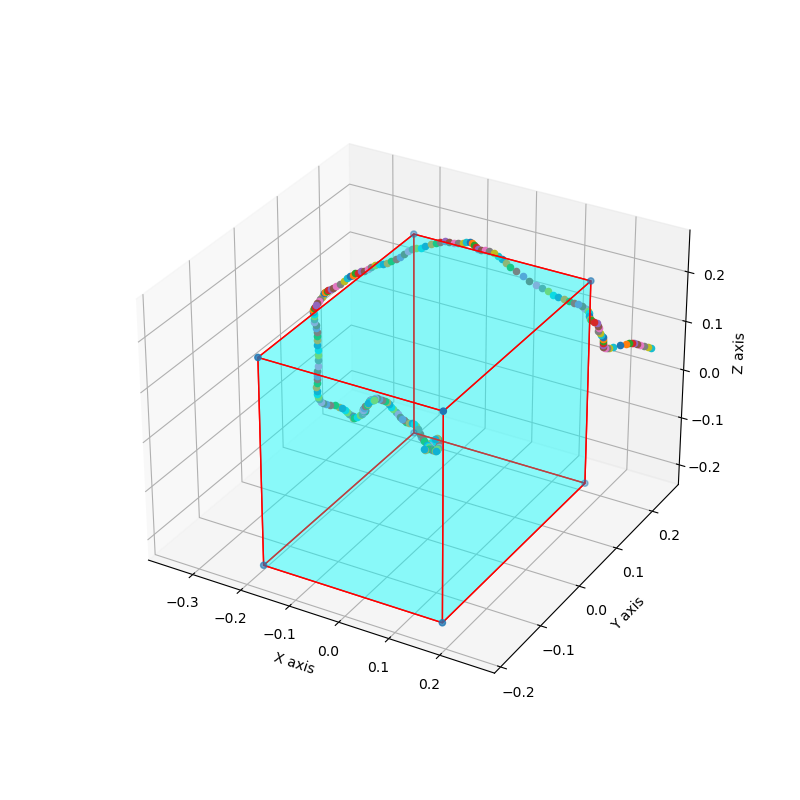
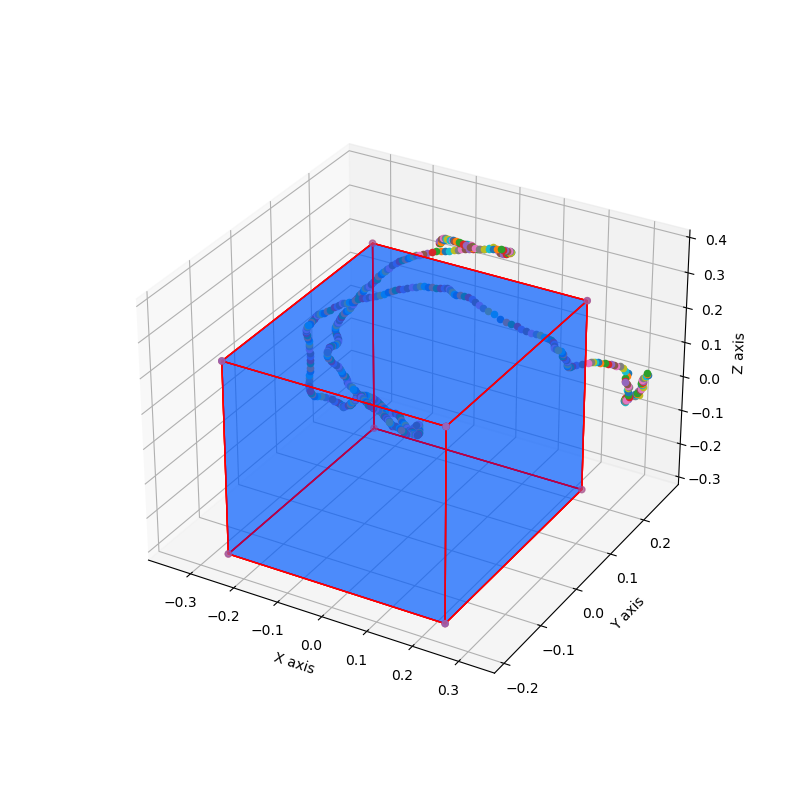
Added plotting of 3D bbox

diff --git a/src/bbox_3D_estimation/utils.py b/src/bbox_3D_estimation/utils.py
@@ -92,7 +92,7 @@ class Detector3D:
     def save_dimensions(self, data_root):
         np.savetxt(data_root + "/box3d_dimensions.txt", self.axes, delimiter=" ")
 
-    def plot_3D_bb(self, poses):
+    def plot_3D_bb(self, poses, GT_points=None):
         plot_3D_scene(
             estQs=self.estQs,
             gtQs=None,
@@ -100,7 +100,7 @@ class Detector3D:
             dataset="tiger",
             save_output_images=True,
             points=self.points,
-            GT_points=None 
+            GT_points=GT_points 
         )
         plt.show()
 
@@ -111,17 +111,19 @@ def predict_3D_bboxes(
     poses_paths,
     data_root,
     seq_dir,
+    filter,
     step=1,
     downscale_factor=0.6,
     compute_on_GPU="cpu",
     hololens=False
+    
 ):  
     full_res_img_paths = sort_path_list(full_res_img_paths)
     poses_paths = sort_path_list(poses_paths)
     _K, _ = data_utils.get_K(intrisics_path) 
 
     DetectorBox3D = Detector3D(_K)
-    BboxPredictor = UnsupBbox(downscale_factor=downscale_factor, device=compute_on_GPU, filter = True)
+    BboxPredictor = UnsupBbox(downscale_factor=downscale_factor, device=compute_on_GPU, filter = filter)
 
 
     for id, img_path in enumerate(tqdm(full_res_img_paths)):
@@ -135,6 +137,7 @@ def predict_3D_bboxes(
             bbox_orig_res = BboxPredictor.infer_2d_bbox(image=image, K=_K)
 
             
+            '''
             ##--------Plotting the RGB image---------
             image_2 = image.copy()
             limits = bbox_orig_res
@@ -149,10 +152,10 @@ def predict_3D_bboxes(
             # Draw a rectangle with blue line borders of thickness of 2 px
             image_2 = cv2.rectangle(image_2, start_point, end_point, color, thickness)
 
-           
             cv2.imshow("Image", image_2)
             #cv2.imwrite('/Users/diego/Desktop/Escritorio_MacBook_Pro_de_Diego/ETH/Third_Semester/Mixed_Reality/Real_2/ZeroShotPoseEstimation/data/onepose_datasets/val_data/0620-dinosaurcup-bottle/dinosaurcup-1/detection_2/'+str(id)+ '.jpg', image_2)
             cv2.waitKey(1)
+            '''
             
             
             #1 is for the bbox without a filter, 0 is with filter
@@ -172,8 +175,12 @@ def predict_3D_bboxes(
         else:
             poses_t = np.vstack((poses_t, poses))
 
-    DetectorBox3D.plot_3D_bb(poses_t)
-    print("-------Predict 3D bboxes finished-------")
+    #DetectorBox3D.plot_3D_bb(poses_t)
+    #print("-------Predict 3D bboxes finished-------")
+
+    GT_points = np.loadtxt(data_root + "/box3d_corners_GT.txt")
+
+    DetectorBox3D.plot_3D_bb(poses_t, GT_points=GT_points)
 
 def sort_path_list(path_list):
     files = {int(Path(file).stem): file for file in path_list}

diff --git a/src/deep_spectral_method/detection_2D_utils.py b/src/deep_spectral_method/detection_2D_utils.py
@@ -10,7 +10,8 @@ import matplotlib.pyplot as plt
 
 
 class UnsupBbox:
-    def __init__(self, downscale_factor=0.6, device="cpu", filter = False) -> None:
+    def __init__(self, downscale_factor=0.3, device="cpu", filter = False) -> None:
+        #Filter needs a bigger image
         if filter:
             downscale_factor=0.6
         self.model_name = "dino_vits16"
@@ -18,6 +19,7 @@ class UnsupBbox:
         self.downscale_factor = downscale_factor
         self.device = device
         self.fitting_model = lmfit.models.Gaussian2dModel() #Model to fit the gaussian curve
+        self.filter = filter
 
         if device=="cpu":
             self.on_GPU = False
@@ -65,7 +67,7 @@ class UnsupBbox:
         eigs_dict_gaussian = eigs_dict.copy()
 
         #Use of the filter, by default is set to False
-        if filter:
+        if self.filter:
             # small segmentation, use of fitting curve
             segmap = extract.gaussian_fitting(
             feature_dict=feature_dict,
@@ -77,8 +79,6 @@ class UnsupBbox:
             feature_dict=feature_dict,
             segmap=segmap,
             )
-            print("Filter")
-            print(bbox['bboxes'])
             
             #If we cannot find a solution with the filter then use the original bbox
             if not bbox['bboxes']:
@@ -89,7 +89,6 @@ class UnsupBbox:
                 # Bounding boxes
                 bbox = extract.extract_bboxes(feature_dict=feature_dict, segmap=segmap)
             
-            
         else:
 
             # small Segmentation
@@ -99,7 +98,10 @@ class UnsupBbox:
             # Bounding boxes
             bbox = extract.extract_bboxes(feature_dict=feature_dict, segmap=segmap)
         
-        bbox_orig_res = (
+        self.bbox_orig_res = (
                 np.array(bbox["bboxes_original_resolution"][0]) / self.downscale_factor
             )
-        return bbox_orig_res
+        return self.bbox_orig_res
+
+    def save_2d_bbox(self, file_path):
+        np.savetxt(file_path, self.bbox_orig_res, delimiter=" ")

diff --git a/run.py b/run.py
@@ -143,9 +143,6 @@ def sfm(cfg):
         obj_name = root_dir.split("/")[-1]
         outputs_dir_root = cfg.dataset.outputs_dir.format(obj_name)
 
-        print("Hololens flag = ", cfg.hololens)
-        print("Poses = ", poses_paths)
-        print(cfg.data_dir)
         # Begin predict 3d bboxes
         predict_3D_bboxes(
             intrisics_path=intrinsics_path,
@@ -155,15 +152,16 @@ def sfm(cfg):
             seq_dir = seq_dir,
             compute_on_GPU="cpu",
             step=1,
-            hololens=cfg.hololens
+            hololens=cfg.hololens,
+            filter = False, #DSM Filter
         )
 
         
-        
         # Begin SfM and postprocess:
-        print("Begin of SFM")
+        print("Beginning of SFM")
         sfm_core(cfg, down_img_lists, outputs_dir_root)
-        print("SfM")
+        print("SfM done")
+        print("Beginning of Post-process")
         postprocess(cfg, down_img_lists, root_dir, outputs_dir_root)
         print("Post-process done")
 
